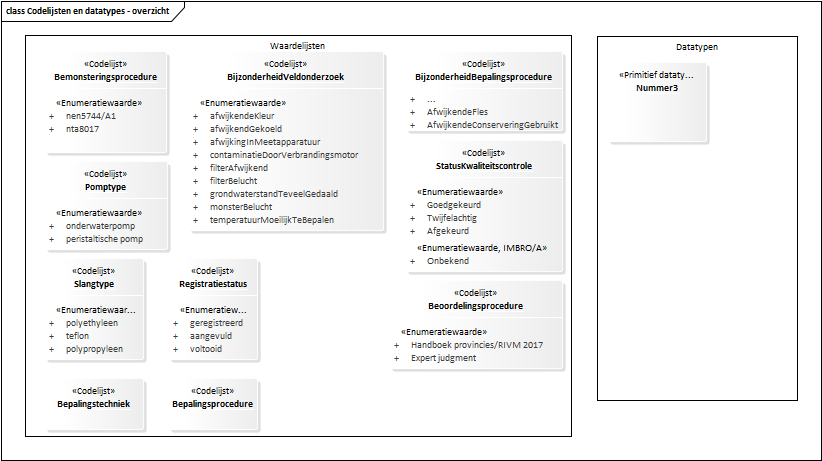
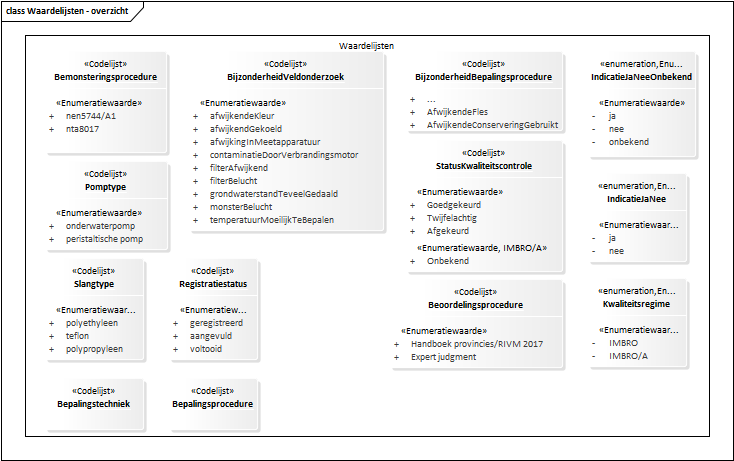
Conceptualmodel-GrondwatersamenstellingsonderzoekGAR-0.1-0-20181119-20190131-143308

diff --git a/data/GAR-cat.html b/data/GAR-cat.html
@@ -1,10 +1,10 @@
 <h2>Catalogus</h2>
 <p class="note" title="Over deze catalogus">
    Deze catalogus is automatisch samengesteld op basis van het UML model 
-   "Grondwatersamenstellingsonderzoek (GAR)" door Imvertor 1.49.1 op January 31, 2019 at 13:21:52.
+   "Grondwatersamenstellingsonderzoek (GAR)" door Imvertor 1.49.1 op January 31, 2019 at 13:33:07.
    <br>
    Wanneer je technische fouten of onvolkomenheden aantreft, geef dit dan door aan <i></i> en geef de code 
-   <i>"Conceptualmodel-GrondwatersamenstellingsonderzoekGAR-0.1-0-20181119-20190131-142153"</i> door. 
+   <i>"Conceptualmodel-GrondwatersamenstellingsonderzoekGAR-0.1-0-20181119-20190131-143308"</i> door. 
    
 </p>
 <div class="imageinfo overview"><img src="data/Images/EAID_BBDCFEE2_BB5A_4b62_99F2_796C8F526D8F.png" usemap="#imagemap-EAID_BBDCFEE2_BB5A_4b62_99F2_796C8F526D8F"><map name="imagemap-EAID_BBDCFEE2_BB5A_4b62_99F2_796C8F526D8F">
@@ -20,8 +20,10 @@
       <area shape="rect" coords="560,339,824,207" alt="" href="#graph_EAID_BAB5C8A8_2997_4fbe_BE80_A531990FF2FE"></map><p><b>Domeinmodel BRO GAR - overzicht</b></p>
 </div>
 <div class="imageinfo overview"><img src="data/Images/EAID_0553A643_1D42_425b_A4A0_47AD9DFE4CE7.png" usemap="#imagemap-EAID_0553A643_1D42_425b_A4A0_47AD9DFE4CE7"><map name="imagemap-EAID_0553A643_1D42_425b_A4A0_47AD9DFE4CE7">
-      <area shape="rect" coords="389,369,563,280" alt="" href="#graph_EAID_A98650D6_3EFC_4b31_8EB8_D00857AADE12">
-      <area shape="rect" coords="607,142,707,62" alt="" href="#graph_EAID_36EEF8FB_05FC_4ac3_AEB7_8FA1129DFC2B">
+      <area shape="rect" coords="587,367,687,278" alt="" href="#graph_EAID_0F674ADC_D7F9_445a_BE42_A976FAD26804">
+      <area shape="rect" coords="587,157,696,51" alt="" href="#graph_EAID_910E172F_EB8C_47ce_8BC2_8C3C50CD52C7">
+      <area shape="rect" coords="587,262,687,173" alt="" href="#graph_EAID_FC106C5C_E11E_4465_AD79_F855FE7A57EB">
+      <area shape="rect" coords="389,368,563,279" alt="" href="#graph_EAID_A98650D6_3EFC_4b31_8EB8_D00857AADE12">
       <area shape="rect" coords="405,131,563,51" alt="" href="#graph_EAID_5F2B46A4_2D63_4758_8807_1990D86B52A9">
       <area shape="rect" coords="405,272,563,140" alt="" href="#graph_EAID_8A624512_B367_4f10_865A_A0FB2BD674E7">
       <area shape="rect" coords="168,430,258,378" alt="" href="#graph_EAID_E4C30D1C_AE4C_4e32_9F8D_AB4C80BC2DC5">
@@ -30,7 +32,18 @@
       <area shape="rect" coords="44,360,144,258" alt="" href="#graph_EAID_1A7489B9_55B3_4f76_ACA0_7B6F5A055C03">
       <area shape="rect" coords="44,250,168,161" alt="" href="#graph_EAID_6D75EE04_4F2A_45c7_AAF6_281FE776BE4E">
       <area shape="rect" coords="188,231,384,51" alt="" href="#graph_EAID_A836FA74_F811_46fe_A7D8_A7BF10DF5411">
-      <area shape="rect" coords="44,153,167,51" alt="" href="#graph_EAID_70E0DAEF_4FE0_4902_B2F1_17870B44D732"></map><p><b>Codelijsten en datatypes - overzicht</b></p>
+      <area shape="rect" coords="44,153,167,51" alt="" href="#graph_EAID_70E0DAEF_4FE0_4902_B2F1_17870B44D732"></map><p><b>Waardelijsten - overzicht</b></p>
+</div>
+<div class="imageinfo overview"><img src="data/Images/EAID_A1844355_72B0_466d_B8D4_6DD92281E08D.png" usemap="#imagemap-EAID_A1844355_72B0_466d_B8D4_6DD92281E08D"><map name="imagemap-EAID_A1844355_72B0_466d_B8D4_6DD92281E08D">
+      <area shape="rect" coords="351,248,451,196" alt="" href="#graph_EAID_864E154C_5AD7_446f_B407_F78709882F50">
+      <area shape="rect" coords="350,175,450,123" alt="" href="#graph_EAID_82BFD5AA_A9BD_47fb_B113_C79BCBE0295C">
+      <area shape="rect" coords="158,103,258,51" alt="" href="#graph_EAID_DE7C0E49_7948_4c6a_AFEC_856939C7141D">
+      <area shape="rect" coords="43,248,143,196" alt="" href="#graph_EAID_3CA9BBEE_29F7_45d7_ADB6_EACA03A2B3AC">
+      <area shape="rect" coords="158,288,258,236" alt="" href="#graph_EAID_EDCB658C_B3C6_4b02_B31D_37C7A19F410A">
+      <area shape="rect" coords="42,175,142,123" alt="" href="#graph_EAID_F25A37E5_E99F_41fe_9B2E_FA0DDBE12C67">
+      <area shape="rect" coords="43,103,143,51" alt="" href="#graph_EAID_E00CD15E_9D87_4daa_ADA9_C615448B8A3B">
+      <area shape="rect" coords="158,212,326,123" alt="" href="#graph_EAID_5AB7BA60_B185_4dbb_94EE_EDA8D8C172CC">
+      <area shape="rect" coords="350,103,450,51" alt="" href="#graph_EAID_36EEF8FB_05FC_4ac3_AEB7_8FA1129DFC2B"></map><p><b>Datatypen - overzicht</b></p>
 </div>
 <section id="">
    <h3>Objecttypen </h3>
@@ -1658,7 +1671,10 @@
          </tr>
          <tr>
             <th><a class="anchor" name="global_class_Model_Beoordelingsprocedure"></a><a class="link" href="#detail_class_Model_Beoordelingsprocedure">Beoordelingsprocedure</a></th>
-            <td></td>
+            <td>De ljist van protocollen en werkwijzen die kunnen worden toegepast bij de beoordeling
+               van de kwaliteit van de meetwaarden die in het veld en/of het laboratorium gemeten
+               zijn.
+            </td>
          </tr>
          <tr>
             <th><a class="anchor" name="global_class_Model_Bemonsteringsprocedure"></a><a class="link" href="#detail_class_Model_Bemonsteringsprocedure">Bemonsteringsprocedure</a></th>
@@ -4602,7 +4618,10 @@
          <tbody>
             <tr>
                <th>Definitie</th>
-               <td></td>
+               <td>De ljist van protocollen en werkwijzen die kunnen worden toegepast bij de beoordeling
+                  van de kwaliteit van de meetwaarden die in het veld en/of het laboratorium gemeten
+                  zijn.
+               </td>
             </tr>
          </tbody>
       </table>
